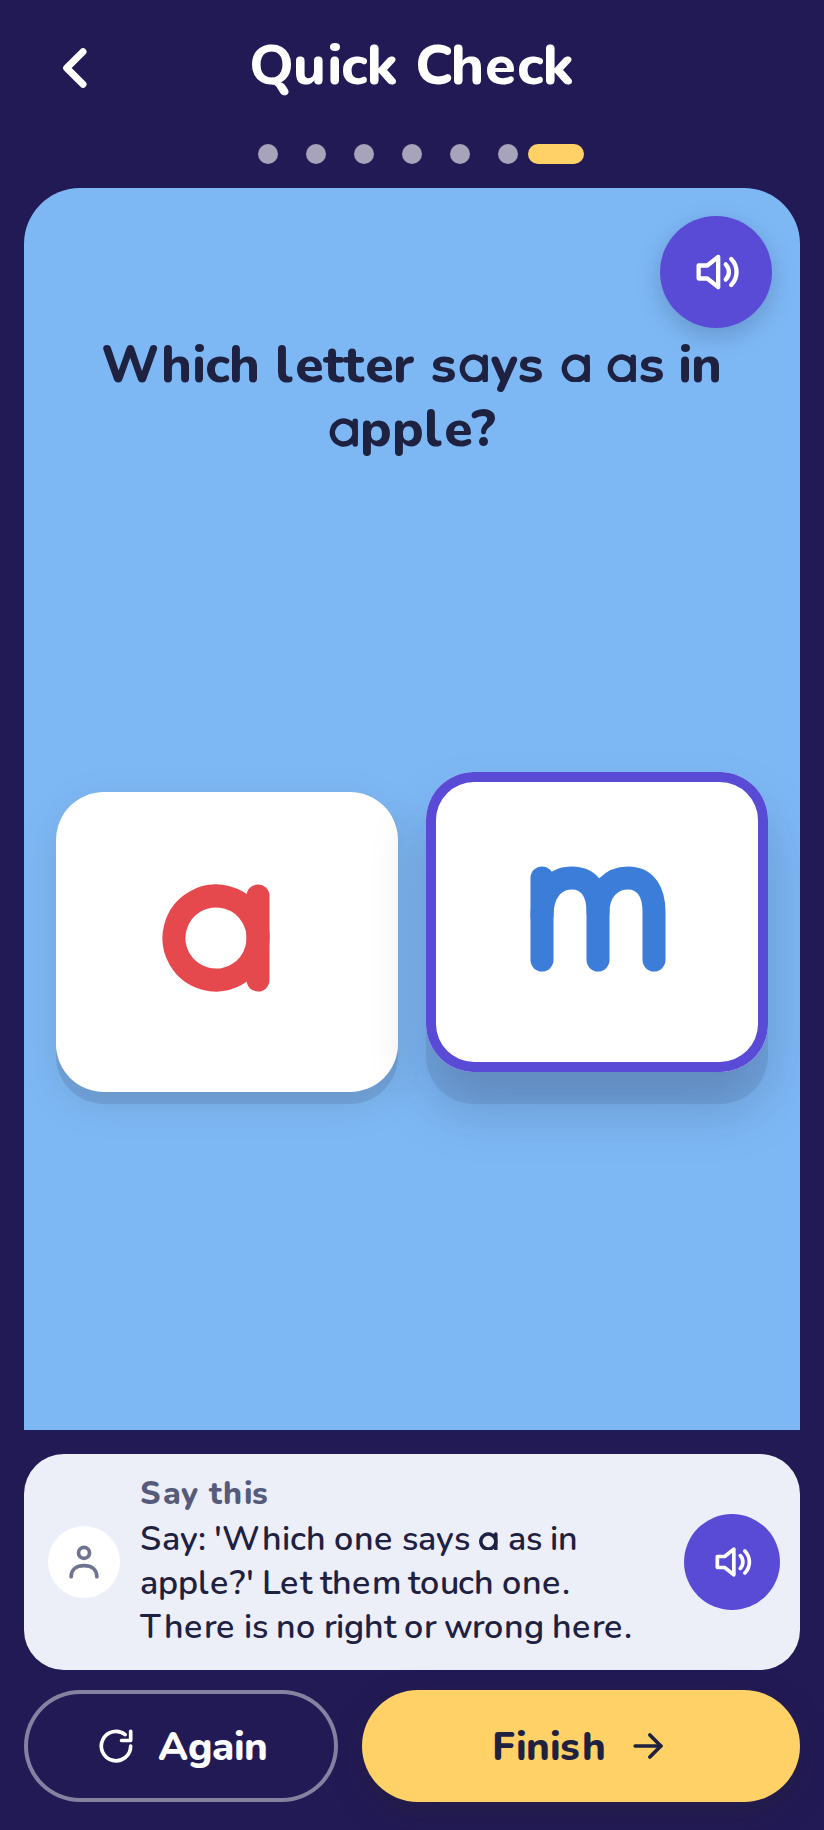
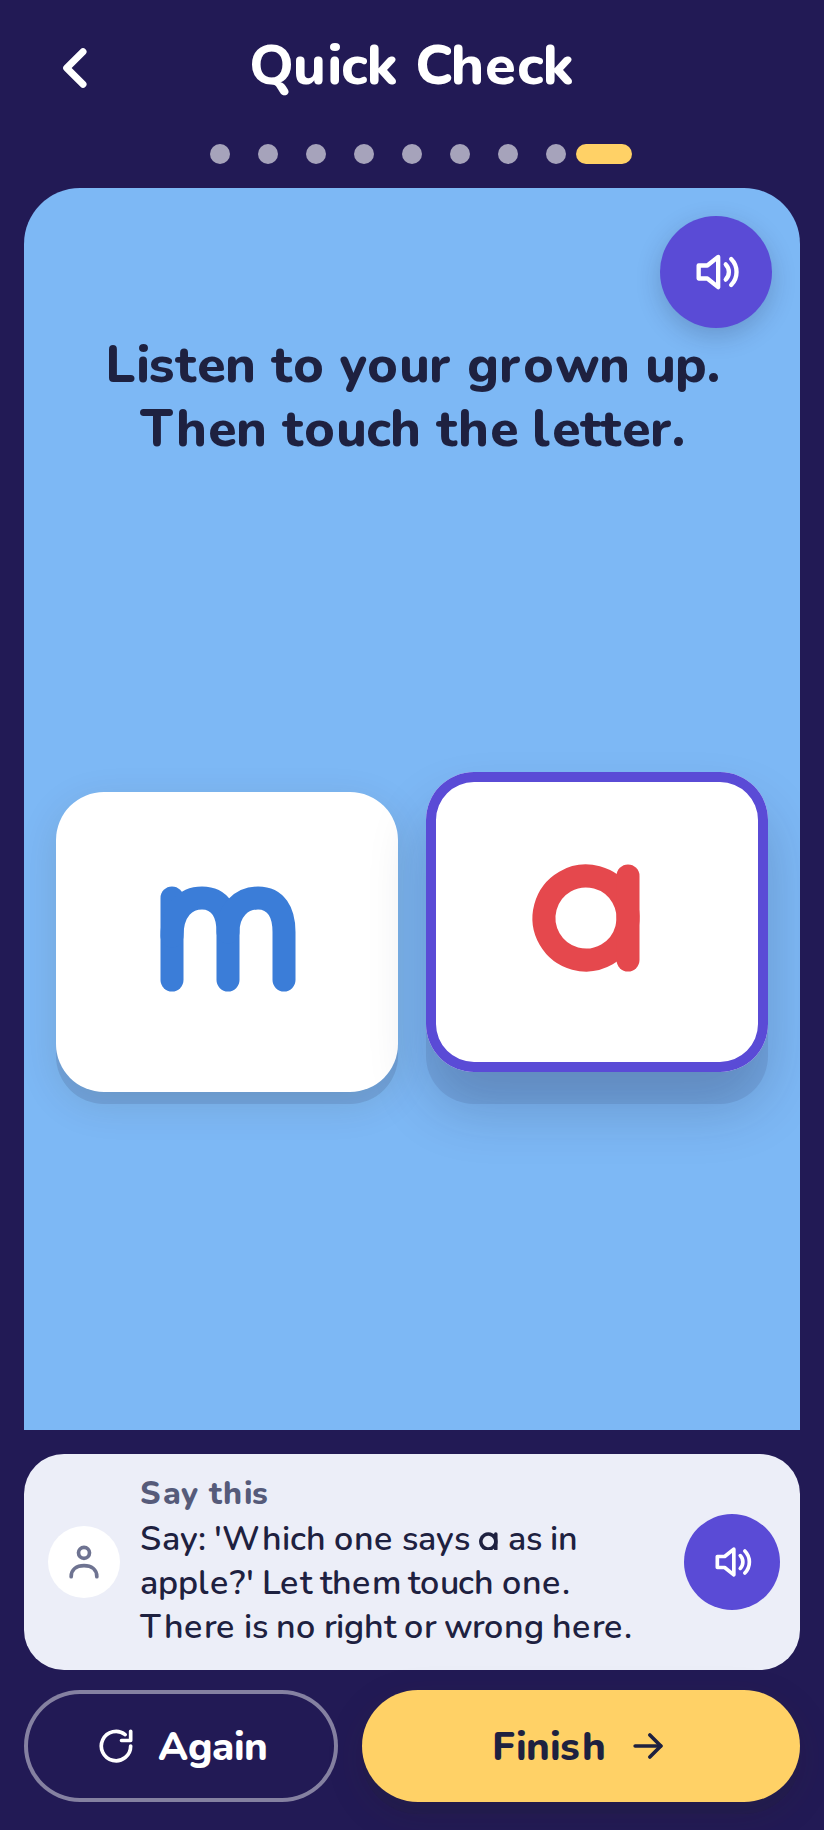
Round 2 part C: polish, docs, screenshots, version 1.3.0
Sheep gets wool curls, the sun and clouds are lighter and out of the letters'
way, Letter Hunt relays out cleanly when the scene changes size (no stacked
letters) and keeps fourteen letters even on the smallest phone. PLAN.md (rule 9,
rule 12, tasks, settings, new section 17) and README (round 2 decisions) updated,
fresh screenshots of both games and the lesson overview with the new cards,
CACHE_VERSION and APP_VERSION both 1.3.0.

Claude-Session: https://claude.ai/code/session_01Snz7WaaKpAYXCzF6JbUKmc

diff --git a/js/art.js b/js/art.js
@@ -35,6 +35,8 @@ export function sheepSvg() {
       h('g', { fill: '#DCE2F4' }, ...fluff.map(([x, y, r]) => h('circle', { cx: x, cy: y + 4, r }))),
       h('g', { fill: '#FFFFFF' }, ...fluff.map(([x, y, r]) => h('circle', { cx: x, cy: y, r }))),
       h('circle', { cx: 18, cy: 60, r: 9, fill: '#fff' }),
+      h('g', { fill: 'none', stroke: '#DCE2F4', 'stroke-width': 2.6, 'stroke-linecap': 'round' },
+        h('path', { d: 'M34 50 q6 -8 13 -2' }), h('path', { d: 'M58 36 q7 -7 14 0' }), h('path', { d: 'M74 54 q6 -7 13 -1' }), h('path', { d: 'M46 68 q6 -6 12 0' }), h('path', { d: 'M68 70 q6 -6 12 0' }), h('path', { d: 'M28 64 q3 -5 8 -2' })),
       h('ellipse', { cx: 96, cy: 42, rx: 6.5, ry: 11, fill: '#9E8EEB', transform: 'rotate(-28 96 42)' }),
       h('ellipse', { cx: 121, cy: 42, rx: 6.5, ry: 11, fill: '#9E8EEB', transform: 'rotate(28 121 42)' }),
       h('ellipse', { cx: 108, cy: 56, rx: 18, ry: 17, fill: '#BBAEF6' }),

diff --git a/sw.js b/sw.js
@@ -1,6 +1,6 @@
 // Service worker: precache the app shell and everything the three lessons use, then serve cache-first.
 // Bump CACHE_VERSION whenever any file below changes, or installed copies keep the old files.
-const CACHE_VERSION = 'reading-v1.2.0';
+const CACHE_VERSION = 'reading-v1.3.0';
 
 const APP_FILES = [
   './', 'index.html', 'manifest.webmanifest',

diff --git a/js/version.js b/js/version.js
@@ -1,2 +1,2 @@
 // Bump both this and CACHE_VERSION in sw.js whenever content or code changes.
-export const APP_VERSION = '1.2.0';
+export const APP_VERSION = '1.3.0';

diff --git a/PLAN.md b/PLAN.md
@@ -37,10 +37,10 @@ Success for stage 1: Geb opens the URL on his Android phone, installs it to the 
 
 **App principles (Geb).**
 
-9. The app speaks but never listens. No microphone permission is ever requested by the app. Speech output comes from two sources: the browser's text to speech for words, prompts and instructions; and recorded audio clips for isolated letter sounds (see 7.5). The parent's live voice stays the main teacher; the app's voice supports it.
+9. The app speaks but never listens. No microphone permission is ever requested by the app. The parent says every letter sound; the app does not pronounce them. The browser's text to speech reads words, prompts and instructions. Recorded clips for isolated letter sounds (see 7.5) stay in the project but play only if the parent turns on "Play recorded letter sounds" in Grownups (setting `playSounds`, off by default). With it off, a clip part in any spoken line is skipped silently and never replaced by text to speech, and the lines that would end in a clip have quiet variants in `curriculum.json`. The parent's live voice is the teacher; the app's voice supports it.
 10. An adult sits with the child. Every task shows a short parent script.
 11. Progress is decided by the parent, who taps "Got it" or "Practice again" at the end of each lesson. No automatic pass or fail.
-12. Lesson flow copies the seven Reading.com tasks in order: Letter Review, New Letter, Sound Story, Saying Words, Saying Sounds, Letter Writing, Quick Check. Lesson 1 has nothing to review and so has six tasks.
+12. Lesson flow copies the seven Reading.com tasks in order: Letter Review, New Letter, Sound Story, Saying Words, Saying Sounds, Letter Writing, Quick Check, with two games of our own inserted before Quick Check (see 6.4): Letter Hunt and Barn Doors. Lesson 1 has nothing to review and so has eight tasks; lessons 2 and 3 have nine.
 13. Sound Story opens this YouTube playlist in a new tab and tells the parent to find the video for the lesson's sound: https://m.youtube.com/playlist?list=PL2hNdtrsO2hIINInfmEb55IpwTw0IrQZW
 14. Lesson order: 1 = m, 2 = a, 3 = s.
 15. Pictures: Mentava's tiles where they exist (a has six). For m and s, no tiles exist yet; use emoji until Geb extracts them from the book PDF (ask him; see section 15). Reading.com's layout, colors and card style are copied closely; its characters are not reproduced, since we only have screenshots. Add a line to `README.md`: "Private personal build. Contains material from Mentava and Reading.com. Not for publication or sale without their permission."
@@ -288,7 +288,7 @@ Key `reading.v1`:
   "lessons": {
     "1": {"tasksDone": [0, 1, 2], "result": null, "completedAt": null}
   },
-  "settings": {"voiceURI": null, "rate": 0.9, "autoSpeak": true},
+  "settings": {"voiceURI": null, "rate": 0.9, "autoSpeak": true, "playSounds": false},
   "lastOpened": "2026-10-03T14:12:00Z"
 }
 ```
@@ -333,11 +333,13 @@ Match the dark list style of `03` to `06` for the task detail header, and keep t
 - Bottom: parent script card (grey, adult icon, small speaker icon) with the exact words to say, then two buttons: "Again" and "Next". Next marks the task done and advances. The last task's Next opens the finish screen.
 - Transitions: 250 ms slide, honoring `prefers-reduced-motion`.
 
-### 6.4 The seven tasks
+### 6.4 The tasks
 
-**Task 1: Letter Review.** For each review sound: glyph on a slide track (7.1), sound card beneath. Speaker button plays that sound's clip, then its first example word via text to speech. "Next" moves through the review letters. Parent script: "Slide the letter and say its sound: mmm."
+Every lesson runs these in order (Letter Review only when there is something to review): Letter Review, New Letter, Sound Story, Saying Words, Saying Sounds, Letter Writing, Letter Hunt, Barn Doors, Quick Check. Tasks are numbered by position in the lesson; the headings below keep the original seven numbers and add the two games, so the headings read 1 to 9 and lesson 1 skips Letter Review. The spoken lines below assume `playSounds` is off, which is the default: the clip parts they mention play only when the parent turns the switch on, and each line that ends in a clip has a quiet variant (`introQuiet`, `promptQuiet`, `promptTextQuiet`).
 
-**Task 2: New Letter.** Big glyph fades in and settles. Speech on entry: the lesson `intro` parts. Below: the sound card ("This letter says mmm. Hold it. Do not say muh." plus `howTo`), then the slide track, then the example words as a horizontal strip of picture tiles (Mentava image when present, else emoji) with the word beneath in lowercase, the target letter tinted. Tapping a tile speaks its word. Parent script: "Say mmm. Now you try. Slide the letter as you say it."
+**Task 1: Letter Review.** For each review sound: glyph on a slide track (7.1), sound card beneath. Speaker button speaks the sound's first example word via text to speech (and plays that sound's clip first when `playSounds` is on). "Next" moves through the review letters. Parent script: "Slide the letter and say its sound: mmm."
+
+**Task 2: New Letter.** Big glyph fades in and settles. Speech on entry: `introQuiet` ("Today we learn a new letter. Your grown up will say its sound."), or `intro` with its clip when `playSounds` is on. The sound card ("This letter says mmm. Hold it. Do not say muh." plus `howTo`) is the main instruction, drawn large, because the parent carries the sound. Below it: the slide track, then the example words as a horizontal strip of picture tiles (Mentava image when present, else emoji) with the word beneath in lowercase, the target letter tinted. Tapping a tile speaks its word. Parent script: "Say mmm. Now you try. Slide the letter as you say it."
 
 **Task 3: Sound Story.** Card: "Time for the sound story." Speech: "Time for the sound story." Parent text: "Open the playlist and find the video for the sound mmm. Come back when it ends." One large hold button "Open playlist" opens `playlistUrl` in a new tab. Nothing else navigates away.
 
@@ -347,7 +349,11 @@ Match the dark list style of `03` to `06` for the task detail header, and keep t
 
 **Task 6: Letter Writing.** Trace pad (7.2) with the lesson's glyph. Numbered start dots and arrows. Finger draws in the accent color. Buttons: "Clear", "Show me" (animates stroke order). Speech on entry: "Start at the dot. Follow the arrow." Parent script says the same.
 
-**Task 7: Quick Check.** `promptText` shown; speaker speaks `prompt` parts. Options as large cards (picture or glyph). Child taps one; the card lifts. Nothing says right or wrong to the child. Parent script: "Ask the question. Let them tap." Then the finish screen.
+**Task 7: Letter Hunt.** A storybook farm scene: sunny sky, rolling hills, a white picket fence, all own SVG. About fourteen small lowercase letters float in the sky, four or five of them the target; the rest come from `games.hunt.distractors` for the lesson's sound. A "Find this" card at the top left shows the target glyph in its accent colour (the child matches shapes; the parent says the sound). Letters are ink-coloured until touched, so colour is never a clue. m, a and s are drawn from `glyphs.js`, every other letter from the font at the same size. Touch targets are 56 px, at least 12 px apart, and bob slowly (vertical only, 4 px, paused while a finger is on that letter). A right touch pops the letter in its accent colour with a small sparkle, refills the slot after 500 ms (at least three targets always stay in the sky) and the sheep trots one step toward the barn. Five right touches take it across; it hops, waves a hoof and a bigger sparkle plays. A wrong touch gives the letter a small shake and nothing else. Five small rings under the scene fill with gold stars. No score, no sound effects, no timer. Spoken line (text to speech): `games.hunt.say`. Parent script: "Say: 'Find the letter that says mmm. Touch it.' Then say mmm together." Again resets the sheep and refreshes the sky.
+
+**Task 8: Barn Doors.** The same farm with a big red barn and white X doors. The doors swing open from their outer edges (400 ms) on a dark interior with one big letter on a warm lit tile (about 40% of the barn width). Rounds 1 and 2 always show the target. After that about one round in three shows a distractor (never two in a row). On a target round the doors stay open and the letter breathes until it is touched: it turns to its accent colour and pops with a sparkle, the barn hops, a star fills, the doors close 600 ms later and the next round opens 900 ms after that. On a distractor round the letter shakes if touched and the doors close on their own after 2.5 s. Five stars end the game: a bigger sparkle, the barn hops twice and the doors stay open. With reduced motion the doors swap by opacity and nothing hops. Spoken line: `games.barn.say`. Parent script: "Say: 'Watch the doors. When you see the letter that says mmm, touch it.' Then say mmm together."
+
+**Task 9: Quick Check.** `promptTextQuiet` shown and `promptQuiet` spoken ("Listen to your grown up. Then touch the letter." or "...the picture that starts the same."); with `playSounds` on, `promptText` and `prompt` (with its clip) instead. Options as large cards (picture or glyph). Child taps one; the card lifts. Nothing says right or wrong to the child. Parent script: "Ask the question. Let them tap." Then the finish screen.
 
 ### 6.5 Lesson finish
 
@@ -533,6 +539,11 @@ Defaults in this plan, taken as approved unless Geb says otherwise:
 - Pictures for m and s are emoji until Geb extracts those tiles from the Mentava PDF, the same way the a to e tiles were extracted (the manifest shows page and xref per image).
 - Nunito is the app font, self-hosted.
 
+Decided by Geb in round 2 (see section 17):
+
+- The app does not pronounce letter sounds; the parent says them. The recorded clips stay behind the Grownups switch "Play recorded letter sounds", off by default.
+- Each lesson gets two games of our own, Letter Hunt (a sheep crosses a field) and Barn Doors, modelled on the example screenshots in `docs/reference/`. They are silent, never score and never say wrong.
+
 ## 16. Post-review changes
 
 Five independent reviews produced `docs/FIXES-round1.md` (37 numbered fixes in five groups). All are applied. What changed, in short:
@@ -545,3 +556,11 @@ Five independent reviews produced `docs/FIXES-round1.md` (37 numbered fixes in f
 
 Decisions fixed by Geb in that round: inside words m and s may render from the font (only "a" always comes from `glyphs.js`); words with untaught letters may appear as picture labels; the alphabet song row stays, as Geb's deliberate exception to the letters-not-names rule; the debug routes stay but are not precached.
 
+
+## 17. Round 2: quiet sounds and two games (v1.3.0)
+
+Specified in `docs/ROUND2-games.md`; Geb's example screenshots are in `docs/reference/`.
+
+- **Quiet sounds.** The app no longer pronounces letter sounds. `playSounds` (Grownups, off by default) brings the recorded clips back. `speech.say` skips clip parts silently when it is off. Quiet variants of the lines that ended in a clip live in `curriculum.json`. Parent scripts read aloud only their framing sentences: any sentence that contains a sound is left out.
+- **Two games per lesson**, Letter Hunt and Barn Doors (6.4), inserted before Quick Check, so Quick Check stays last. Lesson 1 has eight tasks, lessons 2 and 3 have nine. They never score, never say wrong, never play a sound effect and never time the child out. `games.hunt` and `games.barn` in `curriculum.json` hold the spoken line and the distractor letters per taught sound. Art is our own inline SVG in `js/art.js`; the sparkle burst is shared in `js/components/sparkle.js`.
+- **Tests.** `test/games.mjs` drives both games by real touch at the three viewports (overlap, sizes, wrong and right touches, done state, Again, reduced motion, no clip or speech during play); `test/smoke.mjs` runs it.

diff --git a/README.md b/README.md
@@ -31,11 +31,14 @@ Debug pages (not linked from the app; the smoke test uses them, and the service 
 ## Test
 
     node test/check-content.mjs   # curriculum.json against the teaching rules
-    node test/smoke.mjs           # Playwright walkthrough at three Android viewports (takes about four minutes)
+    node test/smoke.mjs           # Playwright walkthrough at three Android viewports (takes about eight minutes)
+    node test/games.mjs           # only the two games (part of the smoke test; takes about two minutes)
 
 The smoke test starts its own server, uses the preinstalled Chromium, fails on any console error, and saves screenshots to `_test/` (ignored by git). `tools/screenshots.mjs` refreshes the pictures in `docs/screenshots/`. `npm install` is only needed if Playwright is not already installed globally; the app itself has no dependencies.
 
 ## Recording the sound clips
+
+By default the app does not pronounce letter sounds at all: your grown up says them, and the screens tell the parent how. The clips below play only if you turn on "Play recorded letter sounds" in Grownups (off by default).
 
 Isolated sounds (mmm, a as in apple, sss) are never made by the phone voice. They play from audio files:
 
@@ -73,7 +76,7 @@ The plan left these open or made them impossible to follow literally. Each is th
 - Fonts: one variable Nunito file (`nunito-latin.woff2`) covers weights 400, 700 and 800, instead of three files.
 - WebP: the bundled ffmpeg has no WebP encoder, so `tools/make-webp.mjs` converts the 26 tiles with Chromium's canvas encoder (512 px, all under 60 KB). The PNG originals stay and are not precached.
 - Every "a" a child reads is drawn from our own single-story glyph (`js/letters.js`), including inside words such as "apple" or "catfish". Inside words, m and s may render from the font: "a" is the only letter whose font shape differs, so only "a" always comes from `js/glyphs.js`.
-- Task numbers in the URL are positions in that lesson's task list, so lesson 1 has tasks 0 to 5 (no Letter Review) and lessons 2 and 3 have 0 to 6.
+- Task numbers in the URL are positions in that lesson's task list, so lesson 1 has tasks 0 to 7 (no Letter Review) and lessons 2 and 3 have 0 to 8 (Letter Hunt and Barn Doors sit just before Quick Check).
 - Back always goes to the parent screen (task to lesson overview to Home), so it is predictable and animates in reverse.
 - Grownups opens only through the hold gate on Home and expires after ten minutes; typing `#/grownups` bounces to Home. The gate is used up on entry, so Back then the browser's back button cannot re-enter. Redirects replace the history entry.
 - Hold gates (Grownups, Open playlist, Play for the alphabet song) take 2 seconds, keep that length even with reduced motion on, and each shows a permanent small "Hold" line.
@@ -101,3 +104,22 @@ The plan left these open or made them impossible to follow literally. Each is th
 - A sparkle of small stars bursts when the letter reaches the end. The slider then resets at once and can be grabbed again, even mid-glide.
 - Full screen button: top right on Home, and in Grownups under "Screen". It uses the browser's Fullscreen API and is hidden where the browser cannot do it.
 - The m and s clips were rebuilt. The first versions kept a vowel after the sound ("maah", "sah") because Wikipedia's recordings are the consonant followed by a vowel. The new m is the hum alone, looped at matching pitch points to about 0.9 s; the new s is the hiss alone, looped with crossfades to about 0.9 s. Both were checked on a spectrogram (no vowel bands). The a clip is unchanged.
+
+
+## Round 2 (v1.3.0): quiet sounds and two games
+
+- The app no longer pronounces letter sounds. The parent says every sound. A new Grownups switch, "Play recorded letter sounds" (off by default), brings the clips back. With it off, clip parts in any spoken line are skipped silently and never replaced by text to speech. Lines that used to end in a clip have quiet variants (`introQuiet`, `promptQuiet`, `promptTextQuiet` in `data/curriculum.json`); New Letter shows its sound card large as the main instruction.
+- Two new tasks per lesson, before Quick Check: Letter Hunt (touch the matching letters in the sky; a sheep trots across the farm) and Barn Doors (the doors open on a letter; touch it when it matches). Lesson 1 now has 8 tasks, lessons 2 and 3 have 9. Silent, no scoring, nothing says wrong.
+- Art is our own inline SVG (`js/art.js`); the sparkle burst is one shared helper (`js/components/sparkle.js`); `test/games.mjs` covers the games.
+
+### Decisions made during round 2
+
+- Quick Check shows the quiet question ("Listen to your grown up. Then touch the letter.") on screen too when sounds are off, so what the child sees matches what is spoken; `promptTextQuiet` holds it.
+- Reading a parent script aloud with sounds off keeps only the sentences that contain no sound. "Say mmm. Now you try. Slide the letter as you say it." reads "Now you try. Slide the letter as you say it." A script whose every sentence holds a sound reads nothing.
+- The one-line spoken instruction of each game lives in `curriculum.json` (`games.hunt.say`, `games.barn.say`), so `check-content.mjs` applies the letter-name and single-letter rules to it: "Find this letter. Touch it." and "Watch the barn doors. Touch the letter that matches."
+- Distractors are keyed by the taught sound (`games.hunt.distractors.m`), which is the same thing as keyed by lesson; Letter Hunt and Barn Doors use the same lists.
+- Letter Hunt keeps fourteen letters where the grid has room (the smallest phone fits fourteen; it would show fewer rather than crowd them). Letters sit on a soft round disc so each one reads as a thing to touch. The five star rings sit in a strip under the scene in both orientations.
+- Letter Hunt drift is vertical only, 4 px, and each letter holds still while a finger is on it. Replacement letters fade in where the old one was; nothing moves toward a finger.
+- Barn Doors: a round is one opening of the doors. A distractor round does not fill a star, so the game always ends after five stars, and never shows two distractor rounds in a row. The letter sits on a warm lit tile inside the dark barn so ink-coloured letters stay readable there; the colour-is-not-a-clue rule holds (ink until found).
+- Barn Doors with reduced motion: the door leaves swap by opacity instantly; nothing hops, breathes or drifts. Letter Hunt with reduced motion: no drift, no trot animation (the sheep moves at once), pops and sparkles are skipped.
+- Overview cards for the games use the sheep and the barn as their picture and the target letter chip; Letter Hunt is sky blue and Barn Doors coral. The landscape overview keeps its grid that scrolls vertically (Round 1 fix 23), now with more cards.
